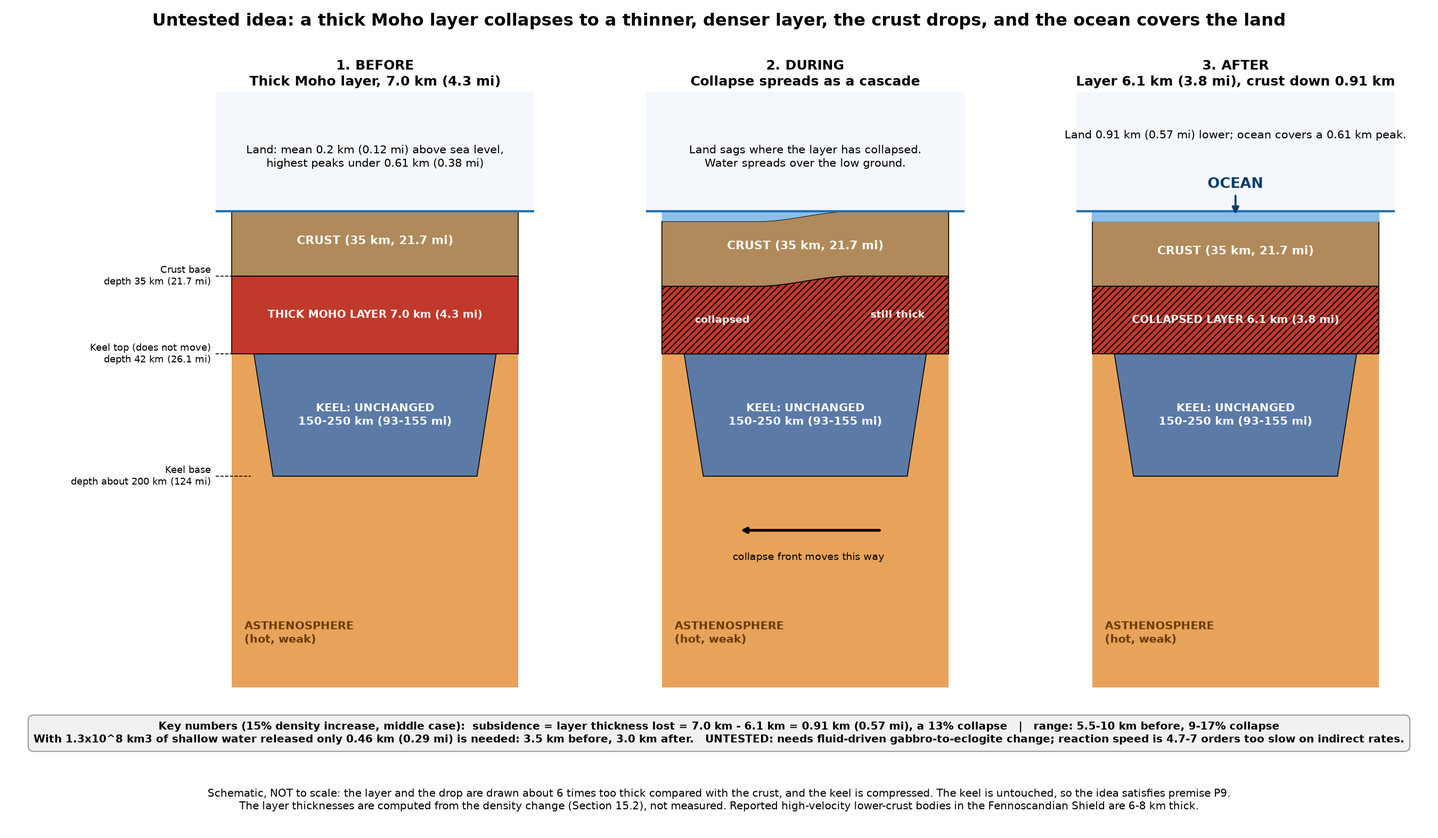
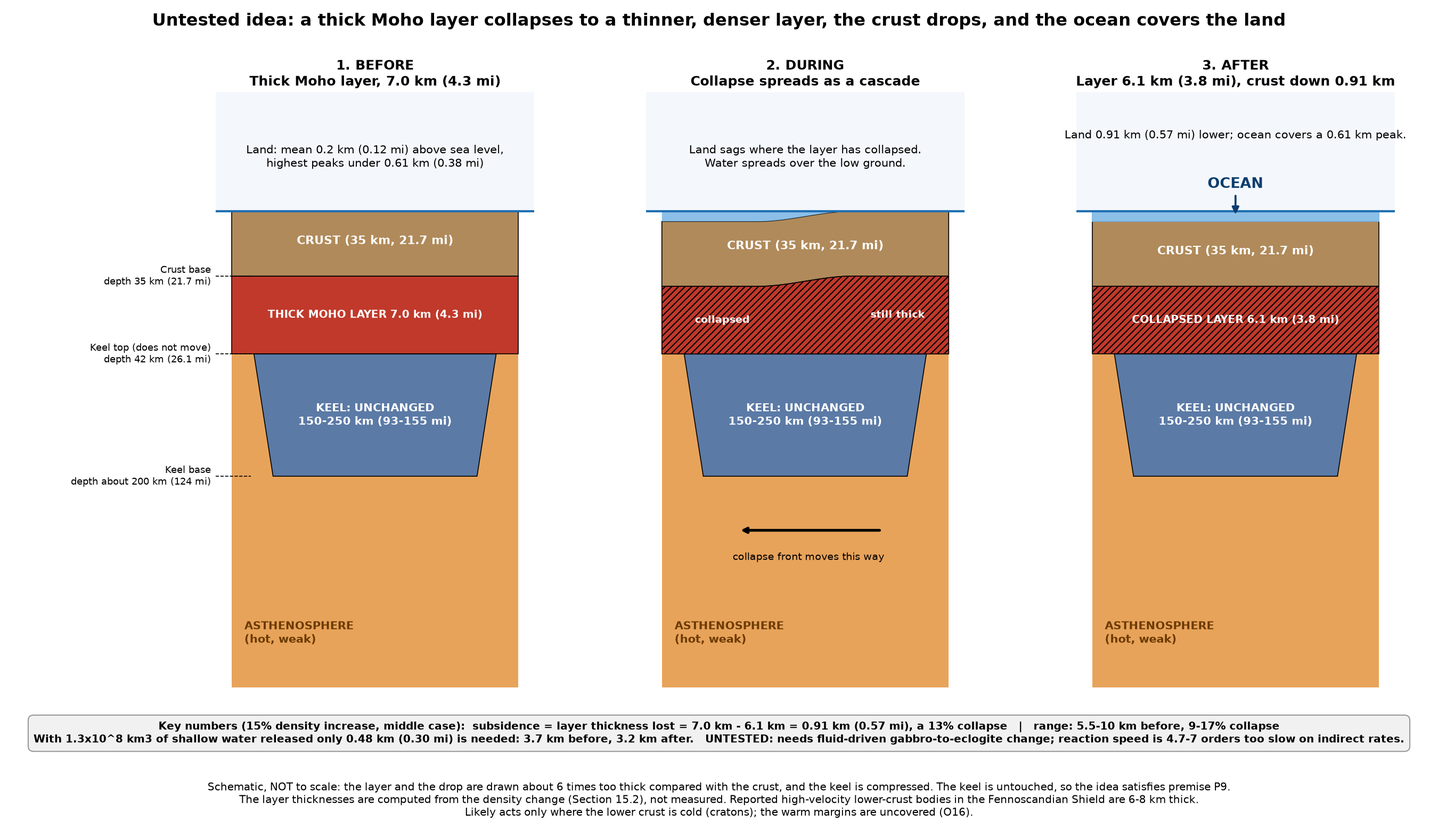
Remove stretching as a flood source; correct Section 16; update collapse diagram
Stretching is now only a note on explaining the major geological provinces
(including Zealandia). Section 16 corrected: margins stay-put rows were invalid;
collapse-only budget is 0.48-0.91 km uniform (0.28-0.53 km at highest ground).
Add O16 (coverage of warm margins). Align water-case numbers to 0.48 km.

Changed region(s): [[0.1556, 0.9333, 0.8711, 0.9956]]

diff --git a/Cascading Moho Collapse Theory (CMCT).md b/Cascading Moho Collapse Theory (CMCT).md
@@ -1,6 +1,6 @@
 # Cascading Moho Collapse Theory (CMCT): a young-earth Flood model that avoids the CPT "heat problem"
 
-**Status:** Draft 5. The keel-drip mechanism (CKDT-II) and Moho peeling are **struck** under premise P9 (no mechanism may conflict with the deep keels cratons have today). The theory currently has **no keel-based subsidence mechanism**; what survives is the heat analysis, the flood geometry, stretching and shallow released water. The one untested idea left is collapse or densification of a layer at the crust base (O15). Phase A (attribute re-verification) is done (Section 14). Phase B steps 1 and 2 (the crust-base collapse test and the stretching-plus-water coverage test) are done (Sections 15 and 16). The rest of Phases B-E has not been run. Draft 1 was written 2026-11-24 by merging `Noah's Pangea v1` (`Theories.md`, `Model.md` Phase 13) and `Noah's Pangea v2` (`Model.md` Phases 1, 3-6). Numbers not listed in Section 14 are still carried over from v1 or v2 and are not yet re-verified.
+**Status:** Draft 6 (stretching removed as a flood source: all flood subsidence is now assigned to the collapsed Moho layer plus released water). The keel-drip mechanism (CKDT-II) and Moho peeling are **struck** under premise P9 (no mechanism may conflict with the deep keels cratons have today). The theory currently has **no keel-based subsidence mechanism**; what survives is the heat analysis, the flood geometry and shallow released water. Stretching is kept only as a note explaining the major geological provinces (Section 4.5). The one untested idea left is collapse or densification of a layer at the crust base (O15). Phase A (attribute re-verification) is done (Section 14). Phase B steps 1 and 2 (the crust-base collapse test and the stretching-plus-water coverage test) are done (Sections 15 and 16). The rest of Phases B-E has not been run. Draft 1 was written 2026-11-24 by merging `Noah's Pangea v1` (`Theories.md`, `Model.md` Phase 13) and `Noah's Pangea v2` (`Model.md` Phases 1, 3-6). Numbers not listed in Section 14 are still carried over from v1 or v2 and are not yet re-verified.
 **Name:** renamed in draft 5 from Cascading Keel Delamination Theory (CKDT) after the keel-removal mechanisms were struck (P9). "CMCT" is a working name until Phase B reports on the crust-base collapse idea (Section 4.8). Earlier files and v1/v2 notes use the old name; "CKDT-II" refers to the struck keel-drip version.
 **Nature:** a speculative young-earth creation-science model. Mainstream geoscience rejects its premises. Where a number fails, the failure is stated.
 
@@ -10,7 +10,7 @@
 
 **Purpose.** Show one physically possible way Noah's Flood could have happened without Baumgardner's Catastrophic Plate Tectonics (CPT) and its "heat problem" (runaway subduction and the rapid making of today's ocean floor, which put 10²⁸-10²⁹ J into the ocean in about a year and boil it).
 
-**Core claim, current state.** The original claim was that continents sit on deep, cold mantle roots (keels), and that the dense lower part of a keel breaks away and sinks, pulling the land down so that it floods without new ocean floor. **That claim is struck** (Section 4.3): any mechanism that removes keel material leaves a keel thinner than the 150-250 km observed under cratons today, which conflicts with premise P9. What remains is the flood geometry (about 0.91 km of subsidence floods a 610 m peak), stretching of the margins (Section 4.5), shallow cool released water (Section 5.1), and the heat constraints. The subsidence mechanism for the keel-bearing continental interiors is **vacant** (O15). The one untested idea is collapse or densification of a layer at the crust base, which removes no keel.
+**Core claim, current state.** The original claim was that continents sit on deep, cold mantle roots (keels), and that the dense lower part of a keel breaks away and sinks, pulling the land down so that it floods without new ocean floor. **That claim is struck** (Section 4.3): any mechanism that removes keel material leaves a keel thinner than the 150-250 km observed under cratons today, which conflicts with premise P9. What remains is the flood geometry (about 0.91 km of subsidence floods a 610 m peak), shallow cool released water (Section 5.1), and the heat constraints. The subsidence mechanism for the keel-bearing continental interiors is **vacant** (O15). The one untested idea is collapse or densification of a layer at the crust base, which removes no keel.
 
 **What CMCT is for, and what it is not for.**
 - **It is a flood (submergence) mechanism.** It lowers land relative to sea level. It adds no water and makes no ocean floor.
@@ -61,7 +61,7 @@ Moving continents and making ocean floor in about a year turns stored thermal an
 - **H5 (water temperature).** Released water must average ≤ 159 °C (present-depth ocean) or ≤ 47 °C (shallow pre-Flood ocean). That means source depth ≲ 5 km or ≲ 1 km.
 - **H6 (water budget).** Water released plus Pangea subsidence must satisfy D = max(0, (h_max + 6.9 m − f·h_P − V_r/A_Earth) / (1 − f)).
 - **H7 (keel sign).** Struck in draft 5: no keel-removal mechanism is considered (P9).
-- **H8 (subsidence budget).** Stretching, released water and any new mechanism must together meet the H6 line.
+- **H8 (subsidence budget).** Released water and the collapse mechanism (or any new mechanism) must together meet the H6 line. Stretching is not a flood source (Section 16).
 - **H9 (new floor).** The model must say how the 1.64×10⁸ km² of ocean floor on continent-bearing plates arose within H1-H3.
 - **H10 (motion).** The model must name the energy and weak layer that move blocks about 3,800 km, with dissipation staying deep and below melting.
 - **H11 (keel preservation, from P9).** After the Flood, every craton must still have a keel within the observed 150-250 km range. Any mechanism must state how much keel it leaves.
@@ -92,8 +92,15 @@ Findings from the drip work that remain useful for any future keel-related idea:
 ### 4.4 Struck with the drip
 The fast-failure creep and shear-heating analysis (formerly Section 4.4) is removed. See 4.3.
 
-### 4.5 Stretching of the margins (explains the submerged margins, does not help flood the interior; see Section 16)
-McKenzie-type initial subsidence (textbook form; v2's code applied the factor (1 − αT_m) twice, which overstated results by 4.6%, corrected in Phase A): β = 1.2 → 722 m; β = 1.5 → 1,445 m; β = 2 → 2,167 m (water-loaded; 35 km crust, 125 km lithosphere). The dataset's transitional crust (136 provinces, 3.8×10⁷ km², 18% of continental plus transitional) has mean elevation −1,360 m and is 92.6% submerged, a fall of about 1,560 m from a +200 m start, consistent with β of about 1.5-1.6 (corrected values). Zealandia (4.9×10⁶ km², about 94% submerged; Mortimer et al. 2017) is the real example of stretched, permanently submerged continent. Stretching energy (3.1×10²⁷ J if all transitional crust) stays deep and passes H3, unless decompression melt erupts (then it counts against H1).
+### 4.5 Stretching: a note on geological provinces (not a flood source)
+**Note.** Stretching (thinning of the crust and lithosphere by pulling it apart) may help to define and explain the major geological provinces, including Zealandia. It is not part of the flood mechanism. In this model all flood subsidence comes from released water and the collapsed Moho layer (Section 4.8). Phase B step 2 (Section 16) showed stretching floods the margins but cannot help flood the interior: lowering the margins pulls water out of the ocean and lowers sea level, so the interior must drop 60-147 m more (108 m more at its highest ground). Without stretching, the margins need another source (O16).
+
+What the stretching idea explains (from v2 Phase 5; the idea was added in v2, not part of the original theory):
+- McKenzie-type initial subsidence (textbook form; v2's code applied the factor (1 − αT_m) twice, overstating results by 4.6%, corrected in Phase A): β = 1.2 → 722 m; β = 1.5 → 1,445 m; β = 2 → 2,167 m (water-loaded; 35 km crust, 125 km lithosphere).
+- The dataset's transitional crust (136 provinces, 3.8×10⁷ km², 18% of continental plus transitional) has mean elevation −1,360 m and is 92.6% submerged, a fall of about 1,560 m from a +200 m start, consistent with β of about 1.5-1.6 (corrected values).
+- Zealandia (4.9×10⁶ km², about 94% submerged; Mortimer et al. 2017) is the real example of a stretched, permanently submerged continent. Other submerged named fragments (Section 5.2's handoff to DTAT) may fit the same picture.
+
+**Not checked:** how much time the stretching took, and whether any stretched margin sits on a craton keel (which would matter for P9). Stretching is not used in the water budget or the energy table.
 
 ### 4.6 Trigger (open for any mechanism)
 Whatever replaces the drip still needs something to start it and a way to spread it. The drip-specific analysis (stress-transfer cascade, stalling, cross-craton propagation) is struck. Triggers checked in v1 and found not to work for keel failure: eclogitization (acts on mafic lower crust, needs prior thickening), plume arrival (10-30 My by default). Eclogitization of lower crust is relevant again only for the untested crust-base collapse idea (O15). See Section 9, item O4.
@@ -108,7 +115,7 @@ The one idea left that satisfies P9. A layer between the crust and the keel was 
 | Case | Subsidence needed | Layer before | Layer after | Collapse |
 |------|-------------------|--------------|-------------|----------|
 | No released water | 0.91 km (0.57 mi) | 3.31 km (2.06 mi) | 2.4 km (1.5 mi) | 27% |
-| With 1.3×10⁸ km³ shallow water released (5.1) | 0.46 km (0.29 mi) | 2.86 km (1.78 mi) | 2.4 km (1.5 mi) | 16% |
+| With 1.3×10⁸ km³ shallow water released (5.1) | 0.48 km (0.30 mi) | 2.88 km (1.79 mi) | 2.4 km (1.5 mi) | 17% |
 
 **Why it is not yet a mechanism:**
 1. **No pore space to crush.** Rock at about 35 km depth (about 1 GPa) has almost no void space. A 16-27% collapse needs a density-raising change in the rock itself. The usual example is gabbro turning to eclogite, which is roughly 10-15% denser (from memory, unverified). A layer of 3-9 km fully converted would give 0.46-0.91 km. That is thicker than the measured layer today.
@@ -118,7 +125,7 @@ The one idea left that satisfies P9. A layer between the crust and the keel was 
 
 **Heat (rough):** crust sinking about 0.9 km releases about 1.5×10²⁶ J over all land, about 1.1 times the heat budget B, at about 35 km depth (conduction time about 40 million years, so it passes H3).
 
-**Status (updated after Phase B step 1, Section 15):** not ruled out, not shown. The 27% collapse and 3.3 km layer in the table and image above **exceed what a density-raising phase change gives** (9-17% thickness loss). If the collapse is a phase change, the layer must have been about 5.5-10 km thick (2.8-5.1 km with released water) and be about 5-9 km thick today. The image `images/crust_base_collapse_diagram.png` was redrawn with the corrected middle case (7.0 km before, 6.1 km after, 13% collapse, 15% density increase).
+**Status (updated after Phase B step 1, Section 15):** not ruled out, not shown. The 27% collapse and 3.3 km layer in the table and image above **exceed what a density-raising phase change gives** (9-17% thickness loss). If the collapse is a phase change, the layer must have been about 5.5-10 km thick (2.9-5.3 km with released water) and be about 5-9 km thick today. The image `images/crust_base_collapse_diagram.png` was redrawn with the corrected middle case (7.0 km before, 6.1 km after, 13% collapse, 15% density increase).
 
 ---
 
@@ -132,12 +139,12 @@ Present-depth ocean (3.68 km basin): 2.3×10⁸ km³ must start underground. Sha
 | Ocean sediment pore water (0.5 km, 40%; my assumption) | 6×10⁷ km³ |
 | Serpentinized oceanic lithosphere (5 km, 10%, 13 wt%; my assumption) | 5×10⁷ km³ (to 1.5×10⁸) |
 
-Every 10⁸ km³ released saves about 330 m of subsidence, so 1.3×10⁸ km³ leaves only about 465 m for CMCT and stretching. A water-only flood needs 2.7×10⁸ km³. Deep (transition-zone) water is too hot (H5). The shallow-ocean pre-Flood case needs 78% of all water underground and cannot be met, so **the model uses the present-depth case**. Venting at 100 m/s needs a slot about 1.8 m wide along 99,700 km of ridge.
+Every 10⁸ km³ released saves about 330 m of subsidence, so 1.3×10⁸ km³ leaves only about 475 m for the collapse mechanism. A water-only flood needs 2.7×10⁸ km³. Deep (transition-zone) water is too hot (H5). The shallow-ocean pre-Flood case needs 78% of all water underground and cannot be met, so **the model uses the present-depth case**. Venting at 100 m/s needs a slot about 1.8 m wide along 99,700 km of ridge.
 
 ### 5.2 Handoff to DTAT (note only)
 Continent-making is the job of a separate theory, the Differential Terrane Accretion Theory (DTAT; see `Differential Terrane Accretion Theory (DTAT).md` if and when it is written). CMCT stops once subsidence and destabilization are done. DTAT takes over from there. This model gives DTAT no content and no numbers.
 
-Open problems that now belong to DTAT, not CMCT: O1 (new ocean floor), O2 (moving the blocks), O12 (recession and lasting uplift) and O13 (the ten highest peaks). The handoff conditions, such as the state of the crust DTAT inherits, are to be defined when DTAT is written.
+Open problems that now belong to DTAT, not CMCT: O1 (new ocean floor), O2 (moving the blocks), O12 (recession and lasting uplift) and O13 (the ten highest peaks). The handoff conditions, such as the state of the crust DTAT inherits, are to be defined when DTAT is written. The stretching note in Section 4.5 may help DTAT define the major geological provinces.
 
 ---
 
@@ -145,12 +152,11 @@ Open problems that now belong to DTAT, not CMCT: O1 (new ocean floor), O2 (movin
 
 | Process | Energy | Depth of dissipation | Result |
 |---------|--------|----------------------|--------|
-| Stretching β = 2 (all transitional crust) | 3.1×10²⁷ J | deep lithosphere | Passes H3; at most 0.004 B reaches surface in Flood year, 0.29 B in 4,370 yr |
 | Released shallow water (lift from 10 km) | 2.3×10²⁵ J (0.16 B) | water column | Passes if source ≲ 5 km |
 | **Not included:** basal drag to move continents | ≥ 5×10²⁸ J (350 B) | deep | **Fails H10** (O2) |
 | **Not included:** making new ocean floor | 6.4×10²⁸ J (456 B) if made new | surface | **Fails H4/H9** (O1) |
 
-Honest reading: stretching and shallow water together can flood part of the land inside the heat cap. Moving the continents and building the new floor is where the heat problem **re-enters**, and nothing in this model removes it.
+Honest reading: released shallow water stays inside the heat cap. The collapse mechanism's heat (Section 15.2) stays deep and also passes H3. Moving the continents and building the new floor is where the heat problem **re-enters**, and nothing in this model removes it.
 
 ---
 
@@ -158,8 +164,8 @@ Honest reading: stretching and shallow water together can flood part of the land
 
 ### 7.1 Supports
 - Keels exist and are large (4.1), and cool xenolith geotherms say they are intact today. This is consistent with P9.
-- Stretched, submerged continental crust is real and large (Zealandia, 33% of continental plus transitional crust below sea level).
-- Energy released deep stays deep (Section 6, stretching row).
+- Stretched, submerged continental crust is real and large (Zealandia, 33% of continental plus transitional crust below sea level). This supports the province note in 4.5, not the flood mechanism.
+- Energy released deep stays deep (Section 15.2).
 
 ### 7.2 Cuts against
 - **No keel-based subsidence mechanism survives P9.** The subsidence for keel-bearing interiors is vacant (O15).
@@ -200,7 +206,8 @@ Cool, conductive xenolith geotherms show no recent catastrophic heating. Fine de
 | O9 | Unverified inputs: ocean volume 1.335×10⁹ km³; 40 °C cap; 15 °C start; 5 cm/yr present speed; slab pull 3.3×10¹³ N/m; ridge push 2.5×10¹² N/m; crust heat 3.2×10¹³ J/m²; sediment and serpentinite reservoir sizes | Many results rest on these | v2 10 |
 | O11 | Post-Flood ice age (P8) and the 40-day "windows of heaven" water | Not modelled | v2 Phase 9 |
 | O12 | Recession: lasting uplift after collision; fragment paths | Belongs to DTAT | v2 |
-| O15 | **No subsidence mechanism for keel-bearing interiors that satisfies P9.** The drip and peeling are struck. Stretching (margins) and released water (partial) are the only surviving sources. One untested idea: collapse or densification of a 3-9 km (if fully converted) layer at the crust base, which removes no keel (limits: little pore space at about 1 GPa, needs a density-raising phase change, trigger and speed unknown) | Direct conflict with present-day data and with P9 | Raised by the user; 4.3 | **Phase B step 1:** not ruled out; main gaps are reaction speed (4.7-7 orders too slow, indirect rates) and a mafic layer 5-10 km thick that is debated (Section 15). **Phase B step 2:** the interior still needs 0.28-0.97 km at its highest ground even with all shallow water released; stretching does not reduce this (Section 16).
+| O15 | **No subsidence mechanism for keel-bearing interiors that satisfies P9.** The drip and peeling are struck. Released water (partial) is the only surviving source; stretching is not a flood source (Section 16). One untested idea: collapse or densification of a 3-9 km (if fully converted) layer at the crust base, which removes no keel (limits: little pore space at about 1 GPa, needs a density-raising phase change, trigger and speed unknown) | Direct conflict with present-day data and with P9 | Raised by the user; 4.3 | **Phase B step 1:** not ruled out; main gaps are reaction speed (4.7-7 orders too slow, indirect rates) and a mafic layer 5-10 km thick that is debated (Section 15). **Phase B step 2:** with collapse as the only subsidence, all Pangea must drop 0.48-0.91 km (uniform) or 0.28-0.53 km at the highest ground (Section 16).
+| O16 | **Coverage of the margins.** The crust-base collapse probably acts only where the lower crust is cold (cratons). Warm, stretched margins (18% of Pangea) are not covered by it, and stretching is no longer a flood source. Needs the collapse to work there, another source, or a flood that does not cover the margins | A global flood needs all land covered | Phase B step 2; 16.3 |
 | O13 | Ten highest peaks need 7.5-8.2 km of uplift from under 610 m | Phase 7 target | v2 2.3 |
 
 Removed with the drip in draft 5: keel water (old O3), dynamic-subsidence factor (O5), cross-craton propagation (O6), stalling (O7), keel density sign (O8), shear-localization width (O10).
@@ -242,7 +249,7 @@ Test each claim, not each number:
 Output: claim register with verdicts (supported, unsupported, contradicted, unresolved).
 
 ### Phase C: Rebuild the Python math files
-Rebuild from scratch into one clean package with a shared `sphere.py`, one script per calculation, fixed seed (1656), unit tests for each formula, and a single `run_all.py`. Cover: heat budget (3.2), water budget (4.2, 5.1), stretching (4.5), energy table (Section 6), and any math for a crust-base mechanism (O15). Every number in this file must be produced by a script. v1 files (`phase13_keel_delamination.py`, `test_math.py`, `phase13_dtat_terranes.py`) and v2 files (`phase1_heat.py` through `phase6c_fragments.py`) are inputs to the rebuild, not trusted outputs. Output: scripts, a results log, and a table showing each model number and its script.
+Rebuild from scratch into one clean package with a shared `sphere.py`, one script per calculation, fixed seed (1656), unit tests for each formula, and a single `run_all.py`. Cover: heat budget (3.2), water budget (4.2, 5.1), energy table (Section 6), and any math for a crust-base mechanism (O15). Every number in this file must be produced by a script. v1 files (`phase13_keel_delamination.py`, `test_math.py`, `phase13_dtat_terranes.py`) and v2 files (`phase1_heat.py` through `phase6c_fragments.py`) are inputs to the rebuild, not trusted outputs. Output: scripts, a results log, and a table showing each model number and its script.
 
 ### Phase D: Resolve conflicting claims
 Work through Section 8 row by row. For each conflict, state the evidence for both sides, pick one, and record why. Update Section 4 to the single winning version. Remove withdrawn text. Output: Section 8 with every row marked resolved.
@@ -261,7 +268,7 @@ Work through Section 9 in this order of importance: O1 and O2 (the heat problem 
 | Subsidence to flood a 610 m peak | about 910 m (839-980 m) |
 | Water to release, present-depth ocean | 2.3×10⁸ km³ (shallow reservoirs 1.3×10⁸) |
 | Subsidence saved per 10⁸ km³ released | about 330 m |
-| Stretching subsidence (corrected) | β = 1.5: 1.4 km |
+| Stretching of margins (province explanation only, not a flood source) | β = 1.5: 1.4 km |
 | Submerged share of continental plus transitional crust | 33.3% (transitional 92.6%) |
 | Unsolved: new ocean floor | 1.64×10⁸ km², 456 B if made new |
 | Unsolved: basal drag for 3,841 km in 150 d | ≥ 350 B |
@@ -328,7 +335,7 @@ NOAA/Eakins & Sharman 2010 and Charette & Smith 2010 (ocean volume); Gleeson et 
 
 ## 15. Phase B step 1: test of the crust-base collapse (2026-11-24)
 
-**Question.** Can a layer at the crust base collapse enough to give 0.46-0.91 km of subsidence, without touching the keel (P9)? **Method.** Web search of abstracts and summaries (not full papers), plus arithmetic I did myself. Codes as in Section 14.
+**Question.** Can a layer at the crust base collapse enough to give 0.48-0.91 km of subsidence, without touching the keel (P9)? **Method.** Web search of abstracts and summaries (not full papers), plus arithmetic I did myself. Codes as in Section 14.
 
 ### 15.1 Findings
 | # | Requirement | Finding | Code |
@@ -342,11 +349,11 @@ NOAA/Eakins & Sharman 2010 and Charette & Smith 2010 (ocean volume); Gleeson et 
 
 ### 15.2 Arithmetic (mine)
 Subsidence equals the thickness the layer loses (mass is conserved and the keel does not move). A phase change that raises density by fraction d shrinks the layer by d/(1+d).
-| Density increase | Thickness loss | Layer needed for 0.91 km | Layer needed for 0.46 km (with shallow water) |
+| Density increase | Thickness loss | Layer needed for 0.91 km | Layer needed for 0.48 km (with shallow water) |
 |------------------|----------------|--------------------------|-----------------------------------------------|
-| 10% | 9.1% | 10.0 km (6.2 mi) | 5.1 km (3.2 mi) |
-| 15% | 13.0% | 7.0 km (4.3 mi) | 3.5 km (2.2 mi) |
-| 20% | 16.7% | 5.5 km (3.4 mi) | 2.8 km (1.7 mi) |
+| 10% | 9.1% | 10.0 km (6.2 mi) | 5.3 km (3.3 mi) |
+| 15% | 13.0% | 7.0 km (4.3 mi) | 3.7 km (2.3 mi) |
+| 20% | 16.7% | 5.5 km (3.4 mi) | 2.9 km (1.8 mi) |
 
 - **Correction to Section 4.8 and the image.** A 27% collapse of a 3.3 km layer is more than a phase change can give. The layer must have been about 3-10 km thick before and about 2.5-9 km thick after. A thickness after collapse of 5-9 km is in the range of the 6-8 km high-velocity bodies reported in the Fennoscandian Shield, but it is thicker than the 0.1-few km Moho transition zone, so "the layer we see today" would be the eclogitized layer, not the thin Moho transition.
 - **Speed gap:** 20 thousand to 4 million years against 150 days is 4.7 to 7.0 orders of magnitude too slow. It is the same kind of gap the keel drip had.
@@ -371,6 +378,8 @@ Ahrens & Schubert (gabbro-eclogite reaction rate and geophysical significance); 
 
 ## 16. Phase B step 2: how much do stretching and shallow water cover? (2026-11-24)
 
+**Draft 6 note.** The result below led to stretching being withdrawn as a flood source. Kept as a record.
+
 **Question.** With stretching of the margins and shallow released water, how much subsidence is still missing in the continental interior, where P9 forbids removing keel? **Method.** Arithmetic only, using the water-budget geometry of Section 4.2 (water volume conserved, ocean floor fixed). No new literature.
 
 ### 16.1 Setup
@@ -381,36 +390,35 @@ Ahrens & Schubert (gabbro-eclogite reaction rate and geophysical significance); 
 - Two bounds for the interior: **uniform** (all interior drops by D) and **peaks only** (only the highest ground drops, so the mean barely moves). The truth lies between, and depends on the pre-Flood hypsometry, which is unknown.
 
 ### 16.2 Result
-| Water released | Margins | Sea-level rise from water | Sea level before any interior subsidence | Interior must drop (uniform) | Highest ground must drop (peaks only) |
-|----------------|---------|---------------------------|-------------------------------------------|------------------------------|----------------------------------------|
-| none | stay put | 0 | 83 m | 807 m | 534 m |
-| none | β = 1.5 | 0 | -25 m | 970 m | 642 m |
-| 2.26×10⁷ km³ (groundwater, verified) | stay put | 44 m | 127 m | 740 m | 490 m |
-| 2.26×10⁷ km³ | β = 1.5 | 44 m | 19 m | 903 m | 598 m |
-| 1.3×10⁸ km³ (all shallow reservoirs; two of three assumed) | stay put | 255 m | 337 m | 422 m | 279 m |
-| 1.3×10⁸ km³ | β = 1.5 | 255 m | 230 m | 585 m | 387 m |
-| 2.3×10⁸ km³ (present-depth requirement, Section 5.1) | stay put | 451 m | 534 m | 126 m | 83 m |
-| 2.3×10⁸ km³ | β = 1.5 | 451 m | 426 m | 289 m | 191 m |
+Correction (draft 6): the first version of this table had "margins stay put" rows that treated the margins (at +200 m mean, peaks to 610 m) as flooded. They are not flooded unless they also drop or sea level reaches their peaks, so those rows were not a valid global flood and have been replaced. The valid cases are below. Numbers are in metres.
+
+| Water released | Sea-level rise from water | A. Collapse only: **all** Pangea drops uniformly (the v2 H6 line) | B. Collapse only: only the **highest ground** drops | C. Margins stretched (β = 1.5), interior drops uniformly | D. Margins stretched, interior highest ground only |
+|---|---|---|---|---|---|
+| none | 0 | 910 | 534 | 970 | 642 |
+| 2.26×10⁷ km³ (groundwater, verified) | 44 | 835 | 490 | 903 | 598 |
+| 1.3×10⁸ km³ (all shallow reservoirs; two of three assumed) | 255 | 476 | 279 | 585 | 387 |
+| 2.3×10⁸ km³ (present-depth requirement, Section 5.1) | 451 | 142 | 83 | 289 | 191 |
+
+Cases A and B are the model as now defined (collapse is the only subsidence). Cases C and D keep the earlier stretching idea for comparison only.
 
 ### 16.3 Findings
-1. **Stretching does not help flood the interior. It hurts.** Dropping the margins by 1.4 km pulls water out of the ocean to fill the new space, which lowers sea level and raises the interior's requirement by 108-163 m. Stretching explains why the margins are under water today (Section 4.5), not how the interior floods. Section 4.5's earlier role as a "second subsidence source" for the flood is withdrawn.
-2. **Released water is the main lever.** Verified groundwater alone gives only 44 m. The full shallow sum gives 255 m, but two of its three reservoirs (sediment pore water, serpentinite) are my assumptions. The 2.3×10⁸ km³ the present-depth ocean requires is more than the shallow sources supply (1.3×10⁸ km³).
-3. **The interior still needs subsidence in every case except the most generous.** With all shallow water and margin stretching, the interior must drop 0.39 km (peaks only) to 0.59 km (uniform). With no stretching it is 0.28-0.42 km. With no water it is 0.53-0.97 km.
-4. **What this asks of the collapse (Section 15.2):** layer thickness needed before collapse, for a 9-17% thickness loss.
-| Interior drop | Layer needed (20% density rise to 10%) |
-|---------------|----------------------------------------|
-| 0.28 km | 1.7-3.1 km |
-| 0.39 km | 2.3-4.3 km |
-| 0.59 km | 3.5-6.4 km |
-| 0.64 km | 3.8-7.0 km |
-| 0.97 km | 5.8-10.7 km |
-So with generous water the collapse needs a layer of about 2-6 km, much closer to the thin end of published thicknesses; with little water it needs 4-11 km.
+1. **Stretching floods the margins but raises what the interior must drop.** In C and D the margins are covered by their own 1.4 km drop, but the water that fills that new space lowers sea level, so the interior needs 60-147 m more when it drops uniformly (970 vs 910 m with no water; 585 vs 476 m with all shallow water) and 108 m more at its highest ground (642 vs 534 m; 387 vs 279 m). Stretching therefore does not help flood the interior. It is withdrawn as a flood source (draft 6) and kept only as a province note (Section 4.5).
+2. **With collapse as the only subsidence, the budget is A or B.** Everywhere on Pangea, including the margins, must drop 0.48-0.91 km (uniform, with all shallow water to none) or 0.28-0.53 km at the highest ground (peaks only). With only verified groundwater it is 0.84 km uniform or 0.49 km peaks only.
+3. **Released water is the main lever.** Each 10⁸ km³ is 196 m of sea level. The full shallow sum gives 255 m but two of three reservoirs are my assumptions (Section 14, row 6). The 2.3×10⁸ km³ the present-depth ocean requires exceeds the shallow sources (1.3×10⁸ km³).
+4. **What this asks of the collapse (Section 15.2).** Layer thickness before collapse, for a 9-17% thickness loss (10-20% density rise):
+| Drop needed | Layer needed |
+|-------------|--------------|
+| 0.28 km (peaks only, all shallow water) | 1.7-3.1 km |
+| 0.48 km (uniform, all shallow water) | 2.9-5.3 km |
+| 0.84 km (uniform, verified groundwater only) | 5.0-9.2 km |
+| 0.91 km (uniform, no water) | 5.5-10.0 km |
+5. **A coverage problem now appears.** The collapse idea probably acts only where the lower crust is cold (cratons, Section 15.2). The margins (18% of Pangea) are warm and stretched, so the collapse would not cover them, and nothing else in the model does. Either the collapse works there too, or the margins need a different source (stretching was one), or the flood is not global over the margins. This is open (O16).
 
 ### 16.4 Limits
-- Pre-Flood hypsometry (the spread of land heights between the mean 200 m and the peak 610 m) is a free parameter. The two bounds bracket it.
-- The water reservoirs are mostly my parametric guesses (Section 14, row 6). Only groundwater is verified.
+- Pre-Flood hypsometry (the spread of land heights between the 200 m mean and the 610 m peak) is a free parameter. B and D bracket it from below.
+- The water reservoirs are mostly my parametric guesses. Only groundwater is verified.
 - It assumes the ocean floor stays fixed and the shallow-ocean pre-Flood case is excluded (Section 5.1).
-- Whether the margins were land with a 200 m mean before the Flood is assumed.
+- The margins were assumed to be land with a 200 m mean before the Flood.
 
 ### 16.5 Consequence for the model
-The model's burden shifts from "subsidence" to **water plus interior subsidence**. The more shallow water the model can justify, the smaller the layer the collapse idea needs. Verifying the sediment and serpentinite water reservoirs (O9) is now as important as testing the collapse.
+The model's burden is water plus collapse subsidence everywhere on Pangea. The more shallow water the model can justify, the smaller the layer the collapse needs. Verifying the sediment and serpentinite water reservoirs (O9) is as important as testing the collapse. Whether the collapse can act under the margins is open (O16).
